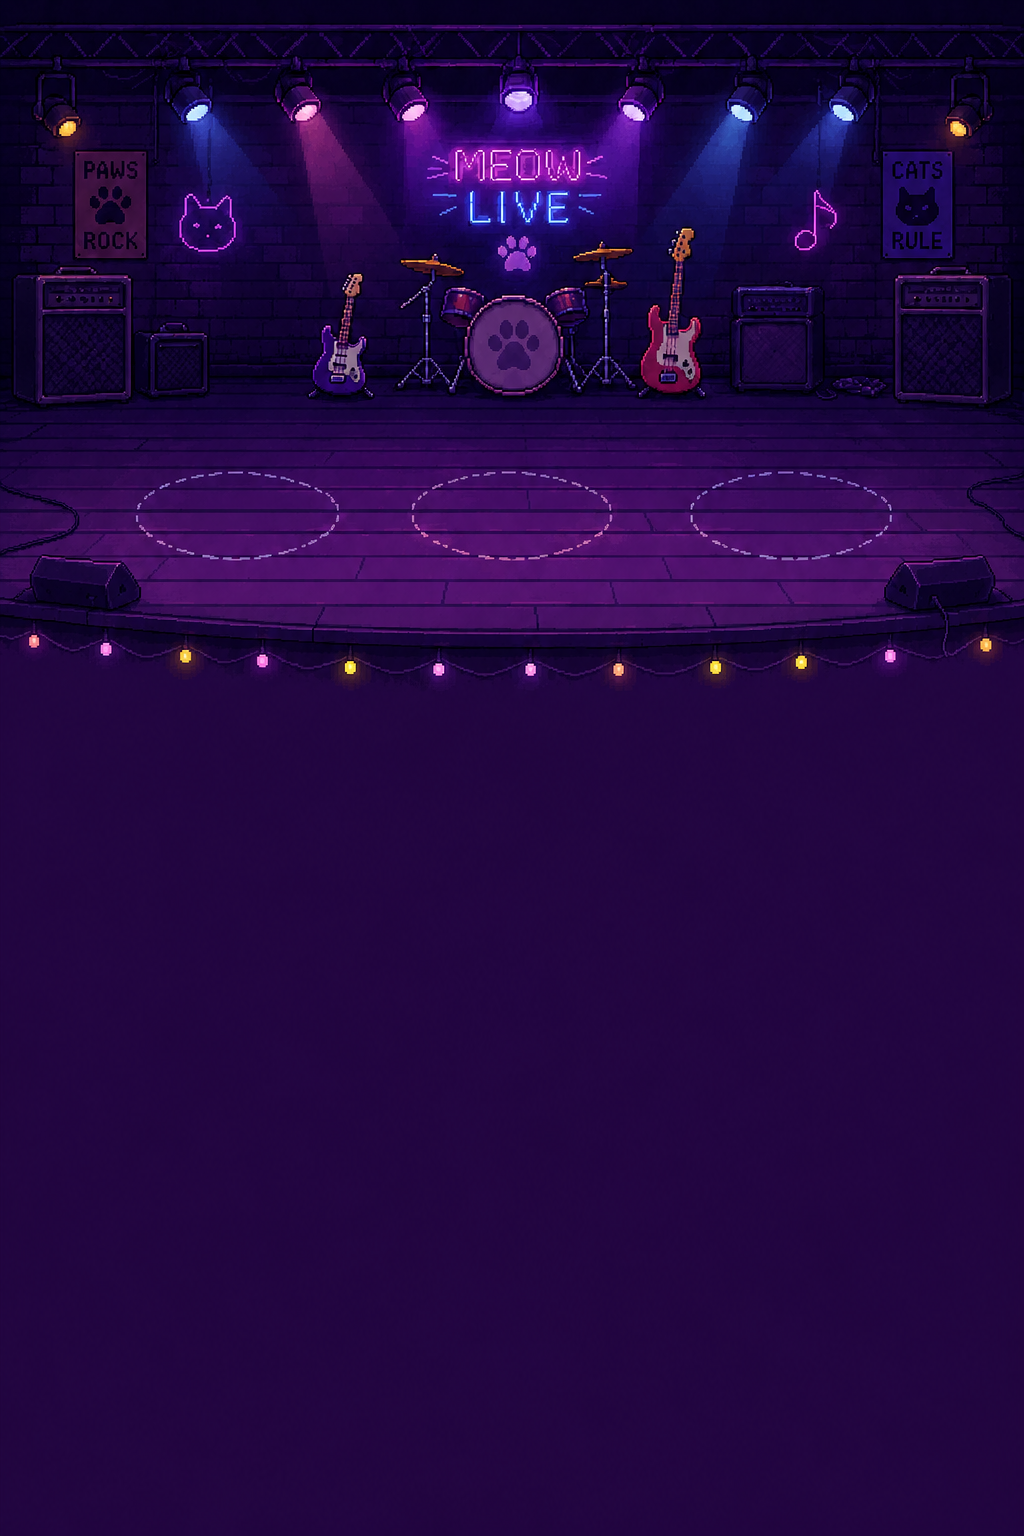
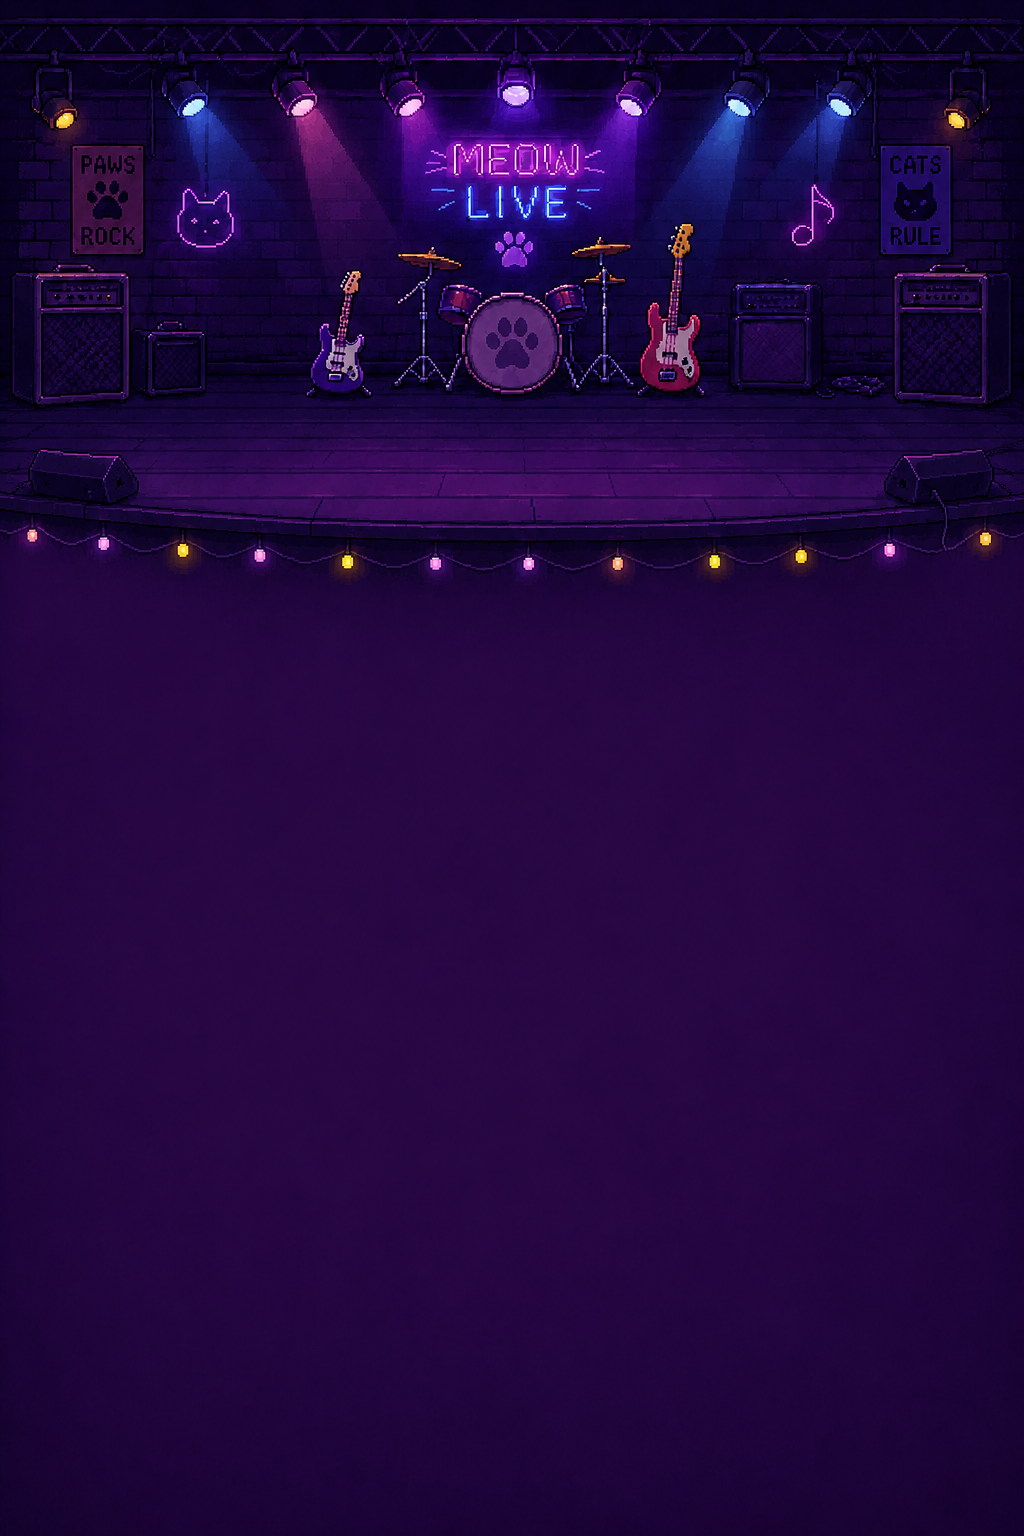
phase5 themes: 4 new bgs (diner, icecave, pizzastore, pumpkinpatch)
pumpkinpatch / pizzastore / icecave / diner added with shift+scale
calibrated via the themes tool. stage retuned (shift 30→2, scale 1.19)
and cattemple shift -38→-10 to fix bg drift surfaced during playtest.

Changed region(s): [[0.0, 0.0, 1.0, 0.2812], [0.0, 0.2812, 1.0, 0.4375]]

diff --git a/src/shared/themes-catalog.generated.ts b/src/shared/themes-catalog.generated.ts
@@ -4,12 +4,17 @@
 
 
 export const BACKGROUND_CATALOG = {
-  stage: { id: "stage", displayName: "Meow Live", backdropKey: "theme-stage-bg", musicKey: "theme-default-music", rarity: "rare" as const, bgShiftUp: 30, bgScale: 1.19 },
+  stage: { id: "stage", displayName: "Meow Live", backdropKey: "theme-stage-bg", musicKey: "theme-default-music", rarity: "rare" as const, bgShiftUp: 2, bgScale: 1.19 },
   arcade: { id: "arcade", displayName: "Neon Arcade", backdropKey: "theme-arcade-bg", musicKey: "theme-default-music", rarity: "rare" as const, bgShiftUp: 50, bgScale: 1 },
   wizard: { id: "wizard", displayName: "Wizard's Tower", backdropKey: "theme-wizard-bg", musicKey: "theme-default-music", rarity: "rare" as const, bgShiftUp: 64, bgScale: 1.09 },
   pirate: { id: "pirate", displayName: "Pirate Galleon", backdropKey: "theme-pirate-bg", musicKey: "theme-default-music", rarity: "rare" as const, bgShiftUp: 48, bgScale: 1.17 },
   mushroomgrove: { id: "mushroomgrove", displayName: "Mushroom Grove", backdropKey: "theme-mushroomgrove-bg", musicKey: "theme-default-music", rarity: "rare" as const, bgShiftUp: -26, bgScale: 1.23 },
-  cattemple: { id: "cattemple", displayName: "Cat Temple", backdropKey: "theme-cattemple-bg", musicKey: "theme-default-music", rarity: "rare" as const, bgShiftUp: -38, bgScale: 1 },
+  cattemple: { id: "cattemple", displayName: "Cat Temple", backdropKey: "theme-cattemple-bg", musicKey: "theme-default-music", rarity: "rare" as const, bgShiftUp: -10, bgScale: 1 },
+  pumpkinpatch: { id: "pumpkinpatch", displayName: "Pumpkin Patch", backdropKey: "theme-pumpkinpatch-bg", musicKey: "theme-default-music", rarity: "rare" as const, bgShiftUp: -13, bgScale: 1.19 },
+  pizzastore: { id: "pizzastore", displayName: "Pizza Store", backdropKey: "theme-pizzastore-bg", musicKey: "theme-default-music", rarity: "rare" as const, bgShiftUp: 64, bgScale: 1.09 },
+  icecave: { id: "icecave", displayName: "Ice Cave", backdropKey: "theme-icecave-bg", musicKey: "theme-default-music", rarity: "rare" as const, bgShiftUp: 91, bgScale: 1.01 },
+  diner: { id: "diner", displayName: "Diner", backdropKey: "theme-diner-bg", musicKey: "theme-default-music", rarity: "rare" as const, bgShiftUp: 125, bgScale: 1 },
+  casino: { id: "casino", displayName: "Casino", backdropKey: "theme-casino-bg", musicKey: "theme-default-music", rarity: "rare" as const, bgShiftUp: 113, bgScale: 1 },
 } as const;
 
 // Legacy alias — keep so existing THEME_CATALOG consumers compile without a rename sweep.
@@ -21,4 +26,9 @@ export const GENERATED_THEME_CATALOG = [
   BACKGROUND_CATALOG.pirate,
   BACKGROUND_CATALOG.mushroomgrove,
   BACKGROUND_CATALOG.cattemple,
+  BACKGROUND_CATALOG.pumpkinpatch,
+  BACKGROUND_CATALOG.pizzastore,
+  BACKGROUND_CATALOG.icecave,
+  BACKGROUND_CATALOG.diner,
+  BACKGROUND_CATALOG.casino,
 ] as const;